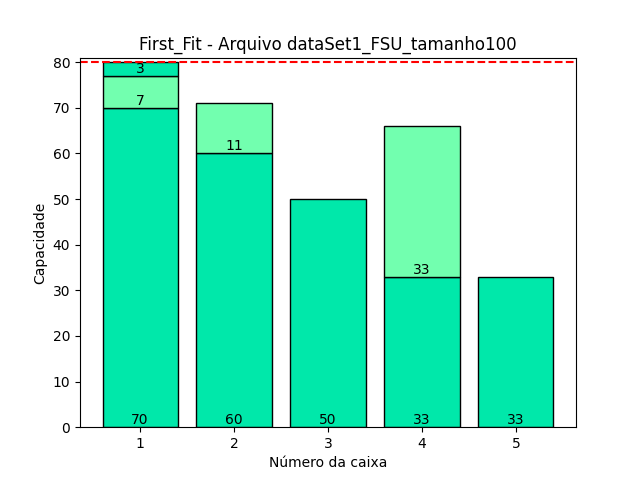
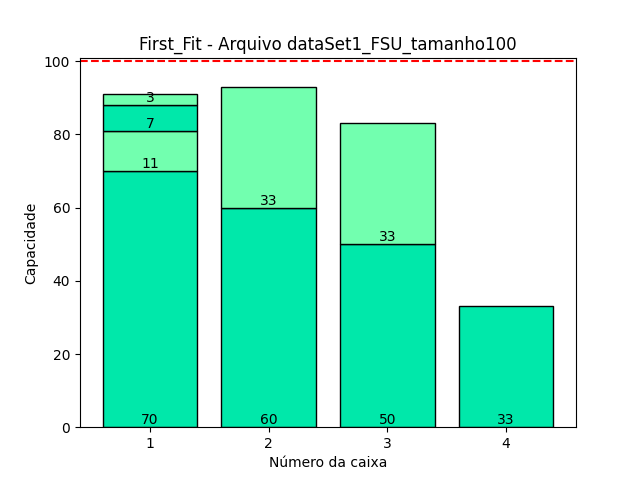
update arquivos

diff --git a/src/binpackingproblem/BinPackingProblem.java b/src/binpackingproblem/BinPackingProblem.java
@@ -25,11 +25,11 @@ public class BinPackingProblem {
     
     public static void main(String[] args) throws IOException {
         Scanner entrada = new Scanner(System.in);
-        int tamanhoCaixa = 80, op = 0;
+        int tamanhoCaixa = 100, op = 0;
         int vet[], vettemp[];
                     
 
-        String nomeArquivo = "exemploGerado_18caixas_tamanho80"; /*    nome                             tamanhocaixa     -> Arquivos disponíveis para teste
+        String nomeArquivo = "exemploGerado_60caixas_tamanho100"; /*    nome                             tamanhocaixa     -> Arquivos disponíveis para teste
                                                                         exemploGerado_18caixas_tamanho80        80
                                                                         dataSet1_FSU_tamanho100                 100
                                                                         dataSet2_FSU_tamanho100                 100
